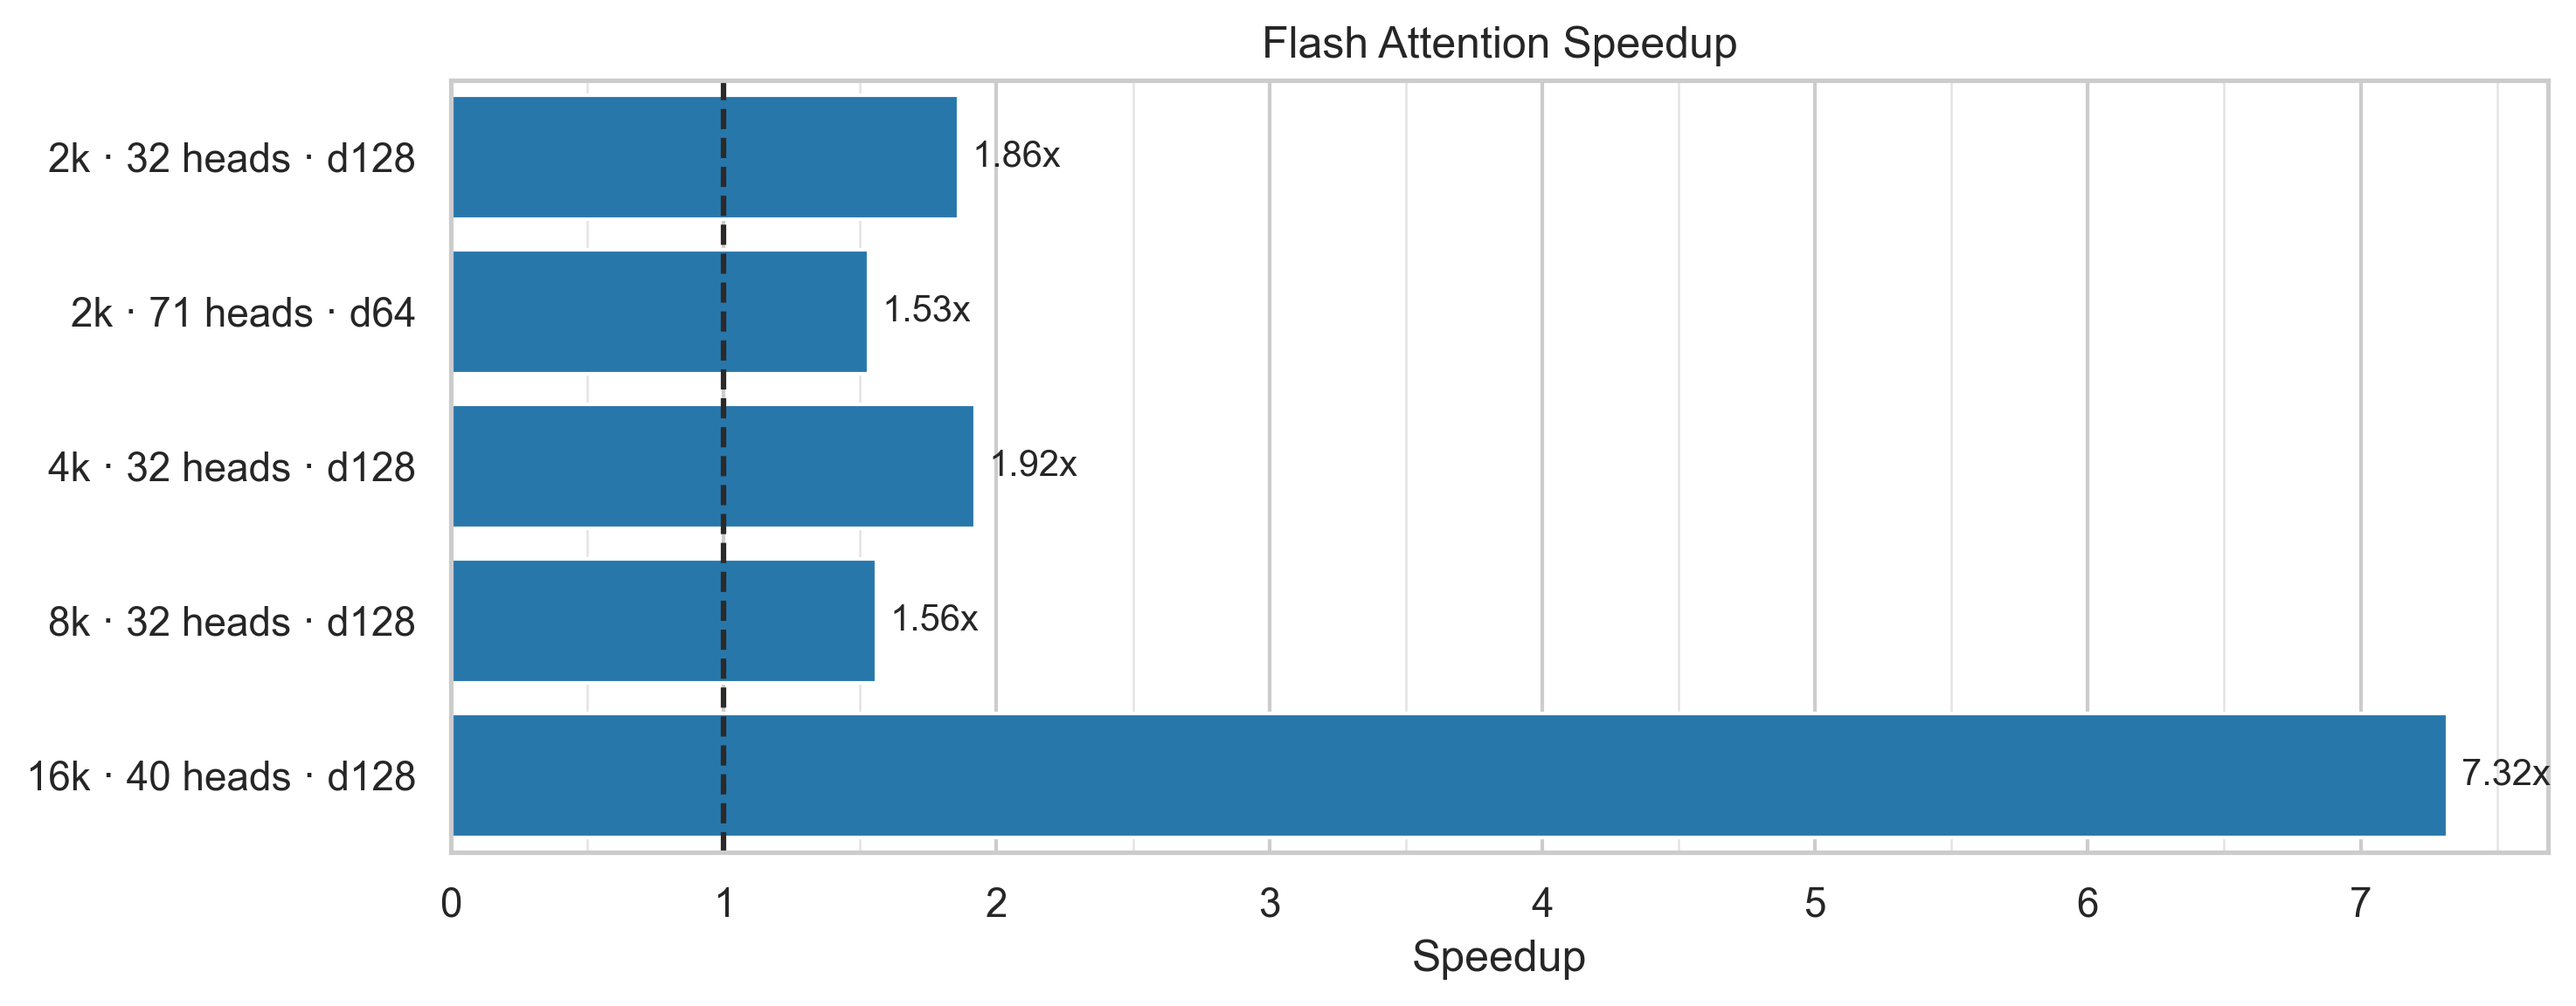
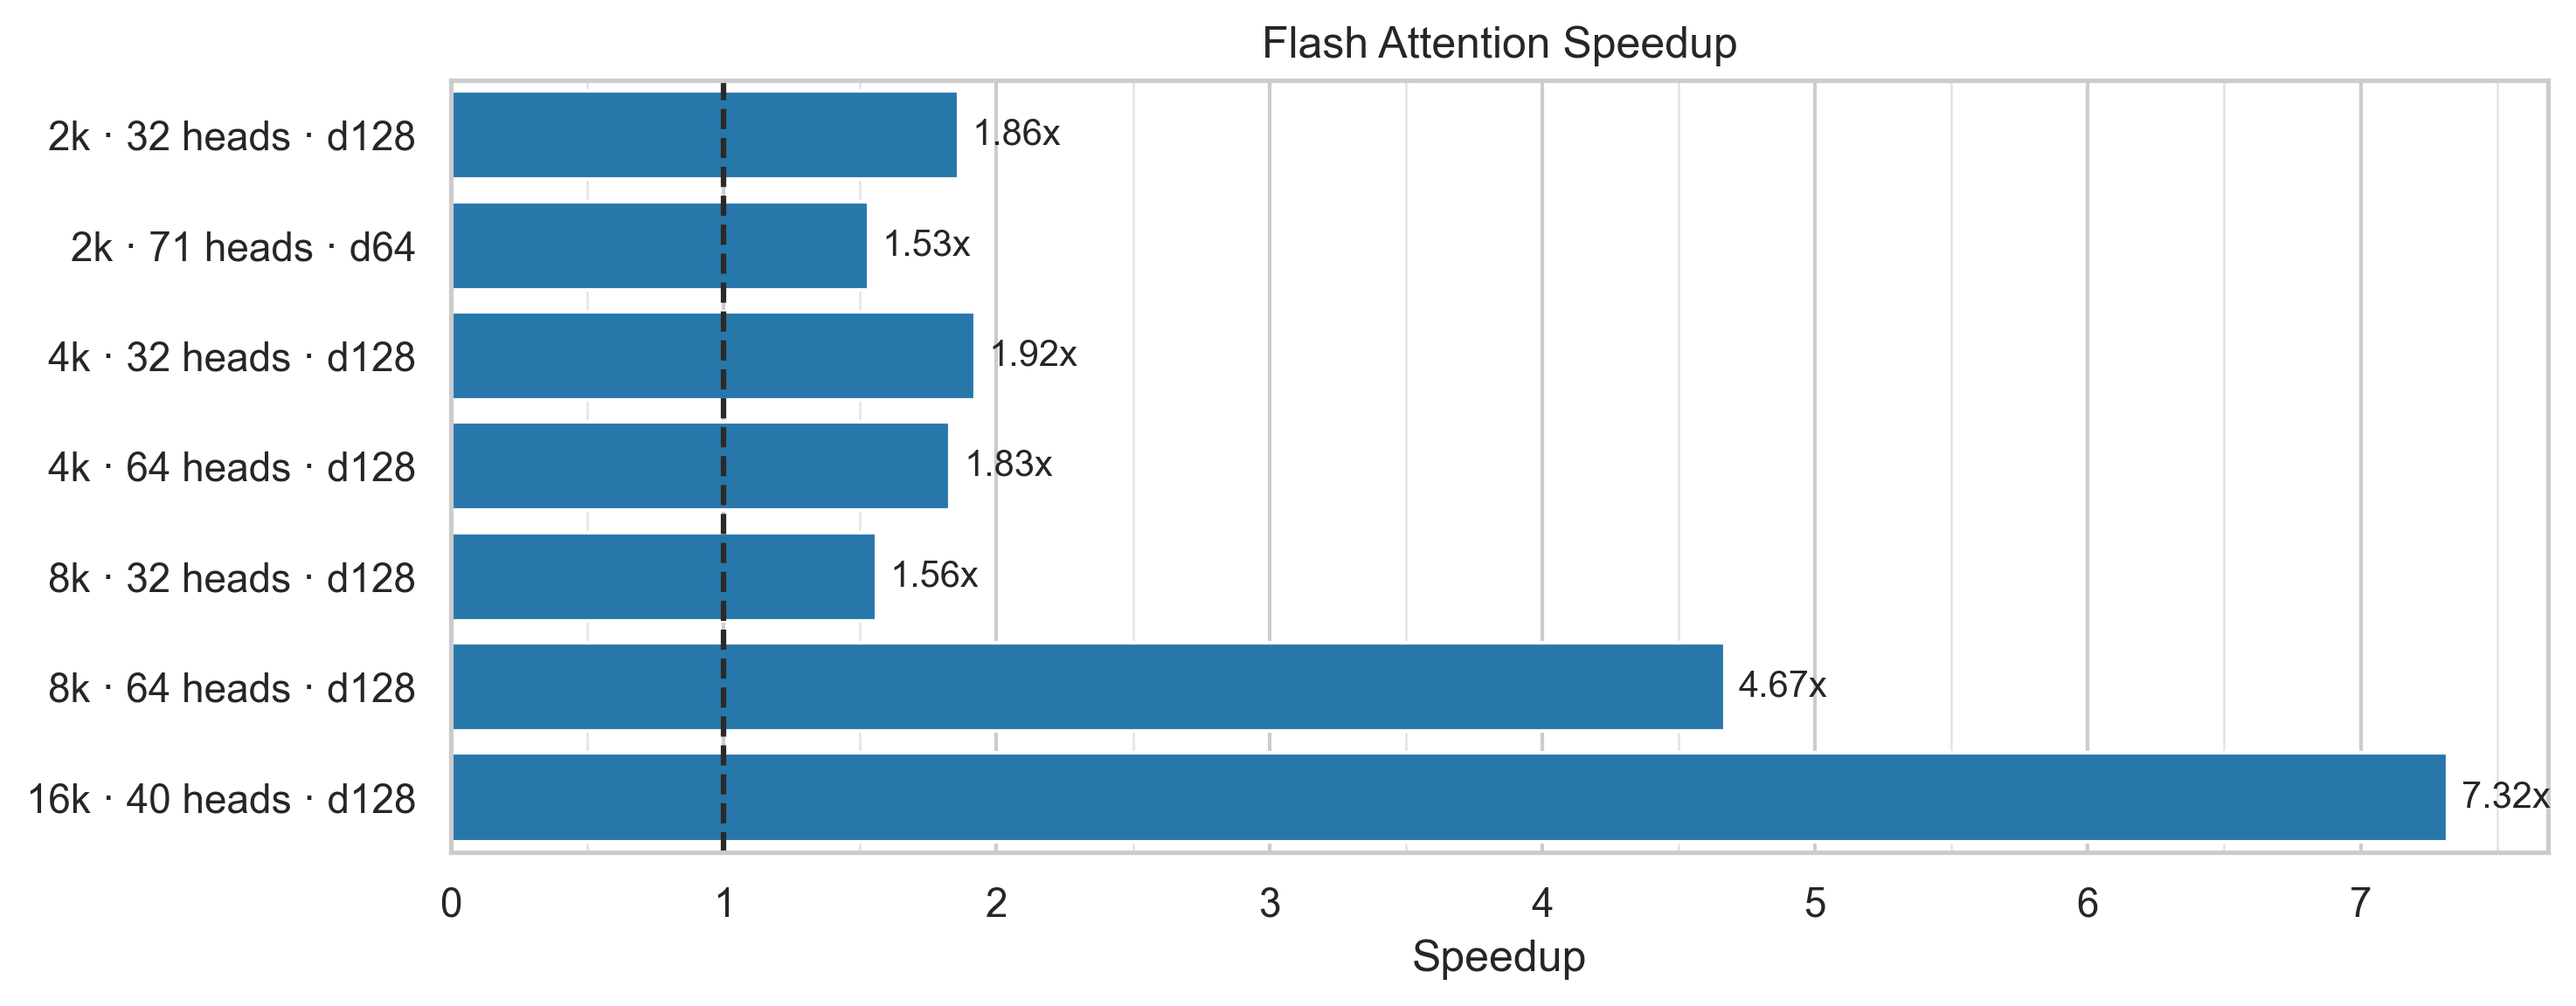
Additional results
Several more KernelBench level 2 problems, additional flash attention
configurations.

diff --git a/assets/readme/results-speedup-tflops.md b/assets/readme/results-speedup-tflops.md
@@ -6,29 +6,38 @@ Platform: Intel Arc Pro B50 (Battlemage G21), 128 XVEs
 
 | Kernel                                    | GFLOP |  Base us |   Opt us | Speedup | Base TFLOPS | Opt TFLOPS |
 |-------------------------------------------|------:|---------:|---------:|--------:|------------:|-----------:|
+| 1_Conv2D_ReLU_BiasAdd                     | 299.6 | 33,045.7 | 16,377.7 |   2.02x |         9.1 |       18.3 |
 | 14_Gemm_Divide_Sum_Scaling                |  34.4 |    621.2 |    106.1 |   5.85x |        55.3 |      323.9 |
 | 35_Conv2d_Subtract_HardSwish_MaxPool_Mish | 309.2 | 37,592.2 | 15,044.1 |   2.50x |         8.2 |       20.6 |
 | 39_Gemm_Scale_BatchNorm                   | 137.4 |  3,609.4 |  3,047.4 |   1.18x |        38.1 |       45.1 |
+| 44_ConvTranspose2d_Multiply_GlobalAvgPool |  38.7 |  9,597.1 |    561.7 |  17.08x |         4.0 |       68.9 |
 | 45_Gemm_Sigmoid_LogSumExp                 | 103.1 |  2,478.7 |  2,363.2 |   1.05x |        41.6 |       43.6 |
 | 48_Conv3d_Scaling_Tanh_Multiply_Sigmoid   |  17.9 | 18,729.5 |  8,602.0 |   2.18x |         1.0 |        2.1 |
 | 55_Matmul_MaxPool_Sum_Scale               | 274.9 | 15,449.0 | 12,552.8 |   1.23x |        17.8 |       21.9 |
 | 61_ConvTranspose3d_ReLU_GroupNorm         | 278.2 | 16,521.8 | 14,014.4 |   1.18x |        16.8 |       19.9 |
+| 65_Conv2d_AvgPool_Sigmoid_Sum             | 172.1 | 98,345.8 | 34,273.6 |   2.87x |         1.7 |        5.0 |
 | 68_Matmul_Min_Subtract                    |  68.7 |  3,597.6 |  2,840.6 |   1.27x |        19.1 |       24.2 |
+| 69_Conv2d_HardSwish_ReLU                  |  18.7 | 12,335.1 |  5,058.3 |   2.44x |         1.5 |        3.7 |
 | 70_Gemm_Sigmoid_Scaling_ResidualAdd       | 137.4 |  3,303.4 |  2,945.7 |   1.12x |        41.6 |       46.7 |
+| 73_Conv2d_BatchNorm_Scaling               |  18.7 | 15,385.3 |  2,374.3 |   6.48x |         1.2 |        7.9 |
+| 80_Gemm_Max_Subtract_GELU †               | 137.4 |  2,842.9 |      8.5 | 335.85x |        48.3 |          — |
 | 81_Gemm_Swish_Divide_Clamp_Tanh_Clamp     |  34.4 |    931.1 |    610.5 |   1.53x |        36.9 |       56.3 |
 | 84_Gemm_BatchNorm_Scaling_Softmax         | 137.4 |  3,412.5 |  2,936.7 |   1.16x |        40.3 |       46.8 |
 | 95_Matmul_Add_Swish_Tanh_GELU_Hardtanh    |  34.4 |  1,016.8 |    632.6 |   1.61x |        33.8 |       54.3 |
+| 98_Matmul_AvgPool_GELU_Scale_Max          | 137.4 |  2,875.3 |    198.4 |  14.50x |        47.8 |      692.7 |
 | 99_Matmul_GELU_Softmax                    |  34.4 |    680.7 |    623.1 |   1.09x |        50.5 |       55.1 |
 
 ## Flash Attention (Forward)
 
-| Config                     |   GFLOP |     Base us |    Opt us | Speedup | Base TFLOPS | Opt TFLOPS |
-|----------------------------|--------:|------------:|----------:|--------:|------------:|-----------:|
-| S=2048 (B=1, A=32, D=128)  |    68.7 |     3,588.5 |   1,930.0 |   1.86x |        19.1 |       35.6 |
-| S=2048, A=71 (B=1, D=64)   |    76.2 |     3,847.7 |   2,522.8 |   1.53x |        19.8 |       30.2 |
-| S=4096 (B=1, A=32, D=128)  |   274.9 |    16,294.5 |   8,468.2 |   1.92x |        16.9 |       32.5 |
-| S=8192 (B=1, A=32, D=128)  | 1,099.5 |    71,474.6 |  45,921.7 |   1.56x |        15.4 |       23.9 |
-| S=16384 (B=1, A=40, D=128) | 5,497.6 | 1,298,123.0 | 177,391.3 |   7.32x |         4.2 |       31.0 |
+| Config                    |   GFLOP |     Base us |    Opt us | Speedup | Base TFLOPS | Opt TFLOPS |
+|---------------------------|--------:|------------:|----------:|--------:|------------:|-----------:|
+| S=2048, B=1, A=32, D=128  |    68.7 |     3,588.5 |   1,930.0 |   1.86x |        19.1 |       35.6 |
+| S=2048, B=1, A=71, D=64   |    76.2 |     3,847.7 |   2,522.8 |   1.53x |        19.8 |       30.2 |
+| S=4096, B=1, A=32, D=128  |   274.9 |    16,294.5 |   8,468.2 |   1.92x |        16.9 |       32.5 |
+| S=4096, B=1, A=64, D=128  |   549.8 |    32,668.2 |  17,814.9 |   1.83x |        16.8 |       30.9 |
+| S=8192, B=1, A=32, D=128  | 1,099.5 |    71,474.6 |  45,921.7 |   1.56x |        15.4 |       23.9 |
+| S=8192, B=1, A=64, D=128  | 2,199.0 |   285,174.8 |  61,106.5 |   4.67x |         7.7 |       36.0 |
+| S=16384, B=1, A=40, D=128 | 5,497.6 | 1,298,123.0 | 177,391.3 |   7.32x |         4.2 |       31.0 |
 
 ## Notes
 
